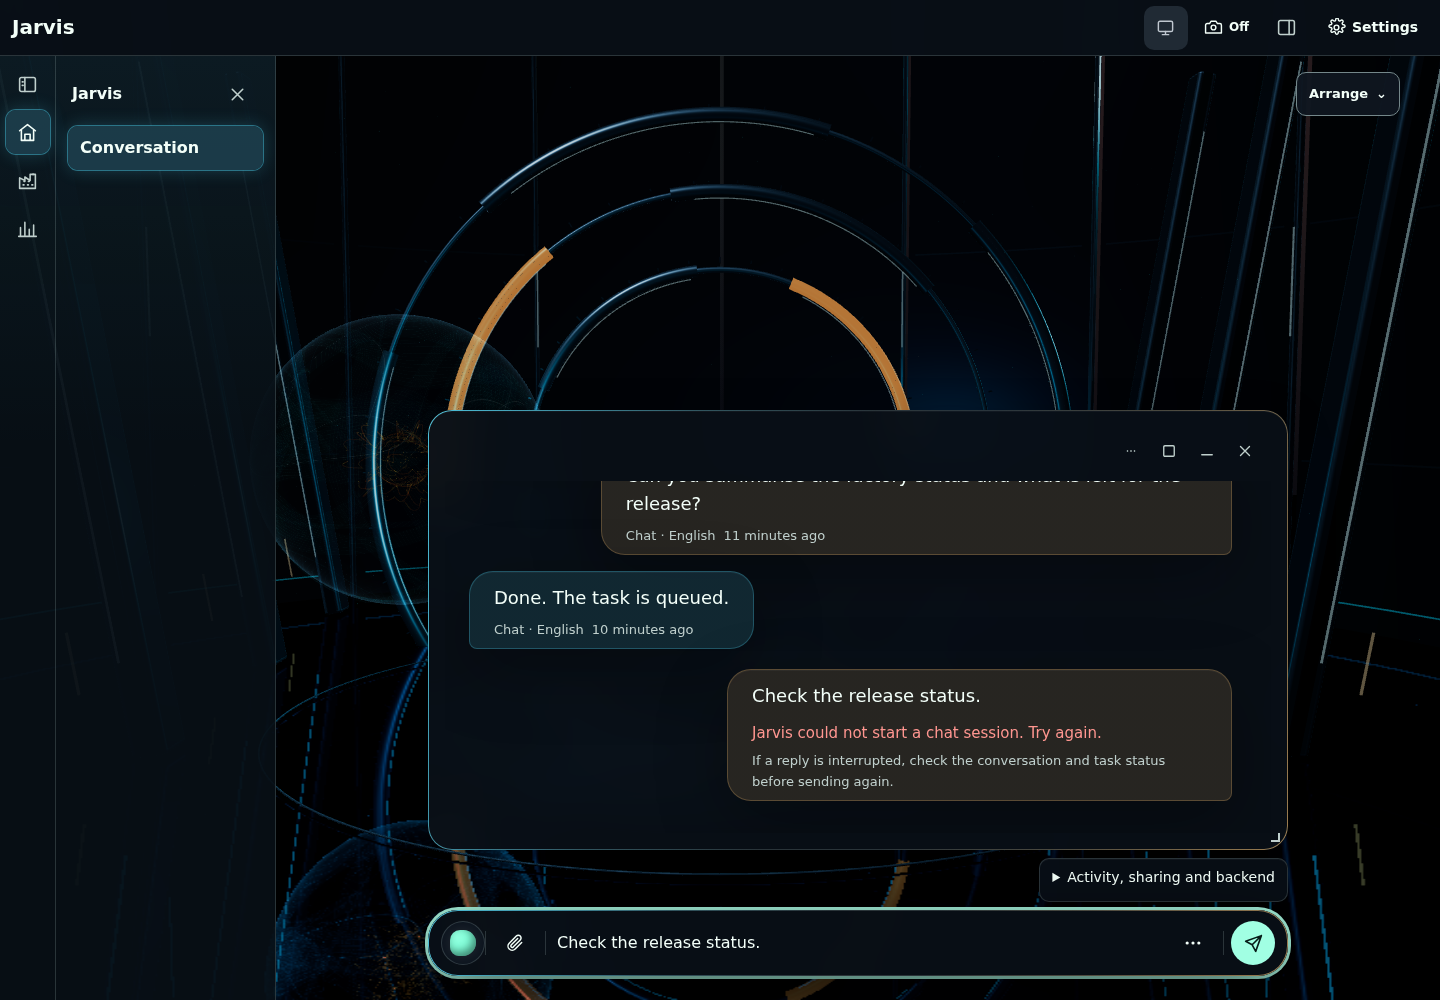
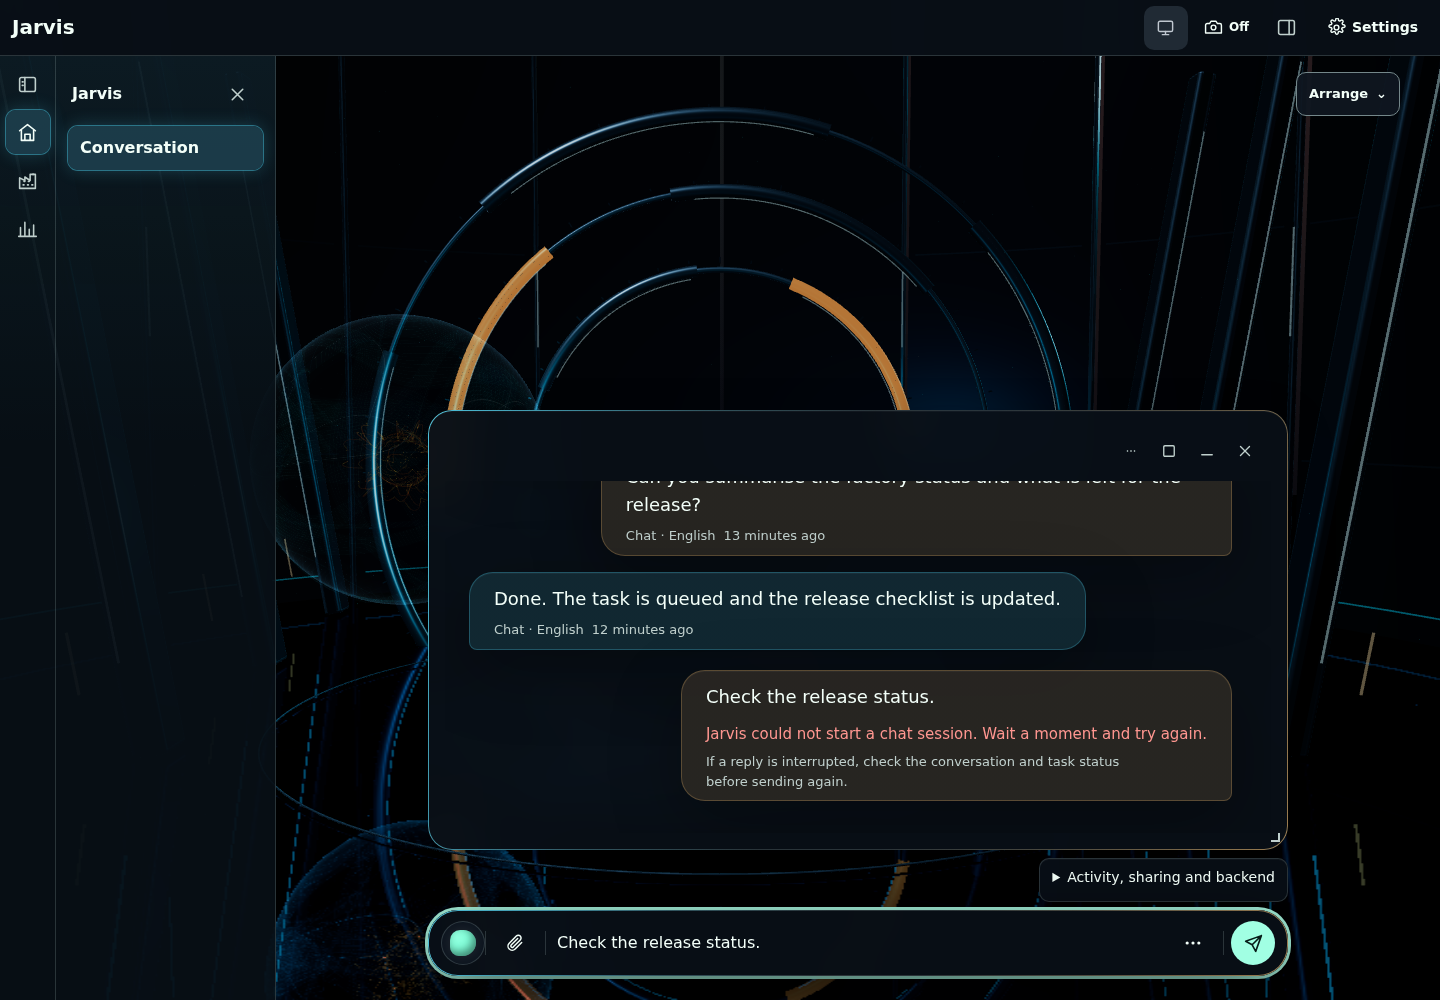
Keep voice and turn errors in normal flow; reopen history on failure; re-capture error states

Changed region(s): [[0.3438, 0.558, 0.8438, 0.806], [0.4375, 0.496, 0.5, 0.527]]

diff --git a/apps/web/src/ConversationHistory.css b/apps/web/src/ConversationHistory.css
@@ -85,8 +85,12 @@
 .conversation-transcript:focus-visible { outline: 3px solid var(--focus); outline-offset: -3px; }
 .conversation-input { position: relative; display: grid; grid-template-columns: 44px minmax(0, 1fr); align-items: center; gap: var(--space-2); flex: 0 0 auto; width: 100%; max-width: 860px; margin: 0 auto; padding: 10px 12px; border: 1px solid var(--rule); border-radius: 30px; background: var(--surface-translucent); backdrop-filter: blur(var(--surface-blur)); box-shadow: var(--dialog-shadow); }
 .conversation-input:has(textarea:focus-visible) { box-shadow: var(--dialog-shadow), 0 0 0 3px var(--focus); }
-.conversation-input[data-voice-active="false"] > .conversation-actions { position: relative; padding-right: var(--space-2); }
-.conversation-input[data-voice-active="false"] > .conversation-actions::after,
+/* In typing mode the voice wrappers dissolve into the composer grid so voice errors sit in normal flow as a full-width row above it. */
+.conversation-input[data-voice-active="false"] > .conversation-actions,
+.conversation-input[data-voice-active="false"] .voice-controls[data-active="false"] { display: contents; }
+.conversation-input[data-voice-active="false"] .voice-controls[data-active="false"] > .action-row { position: relative; padding-right: var(--space-2); }
+.conversation-input[data-voice-active="false"] .voice-controls[data-active="false"] > :is(.voice-error, .voice-screen-error) { position: static; order: -1; grid-column: 1 / -1; width: auto; max-width: none; margin: 0 4px; padding: 10px 14px; border: 0; border-radius: var(--radius-control); background: var(--surface); color: var(--error); font-size: var(--type-small); line-height: 1.4; overflow-wrap: anywhere; }
+.conversation-input[data-voice-active="false"] .voice-controls[data-active="false"] > .action-row::after,
 .conversation-history .composer-attach::after,
 .conversation-history .composer-more::after { position: absolute; top: 10px; right: -1px; bottom: 10px; width: 1px; background: var(--rule); content: ""; }
 .conversation-history .composer-attach, .conversation-history .composer-more { padding-right: var(--space-2); }
@@ -280,7 +284,7 @@
   .conversation-message { padding: var(--space-3) var(--space-4); }
   .conversation-window-host > .conversation-transcript { padding: 0 var(--space-3) var(--space-3); }
   .conversation-input { border-radius: 26px; padding: 6px 8px; }
-  .conversation-input[data-voice-active="false"] > .conversation-actions { padding-right: var(--space-1); }
+  .conversation-input[data-voice-active="false"] .voice-controls[data-active="false"] > .action-row { padding-right: var(--space-1); }
   .conversation-history .composer-attach, .conversation-history .composer-more { padding-right: 2px; }
   .conversation-history .composer { gap: var(--space-1); }
   .conversation-overview .jarvis-side { grid-template-columns: minmax(0, 1fr); }

diff --git a/apps/web/src/App.test.tsx b/apps/web/src/App.test.tsx
@@ -555,6 +555,29 @@ describe('App shell', () => {
     expect(composer.value).toBe('Unsent draft');
   });
 
+  it('shows voice errors inside the composer and brings closed history back for a failed turn', async () => {
+    const user = userEvent.setup();
+    loadConversationHistory.mockResolvedValue({ messages: historyPair, nextCursor: null });
+    sendChatTurn.mockRejectedValue(new Error('Jarvis could not finish the reply. Try again.'));
+    await renderSignedIn();
+    await screen.findByText('I am ready.');
+
+    await user.click(screen.getByRole('button', { name: 'Close Conversation' }));
+    await user.type(screen.getByRole('textbox', { name: 'Message Jarvis' }), 'Will this fail?');
+    await user.click(screen.getByRole('button', { name: 'Send' }));
+    const turnAlert = await screen.findByText('Jarvis could not finish the reply. Try again.');
+    expect(turnAlert.getAttribute('role')).toBe('alert');
+    expect(screen.getByRole('article', { name: 'Conversation' }).contains(turnAlert)).toBe(true);
+
+    await user.click(screen.getByRole('button', { name: 'Start voice' }));
+    await user.click(screen.getByRole('button', { name: 'End voice' }));
+    act(() => voiceSessions.at(-1)!.options.onStatus('error', 'Audio could not start. Check your browser audio settings and try again.'));
+    const voiceAlert = screen.getByText('Audio could not start. Check your browser audio settings and try again.');
+    expect(voiceAlert.getAttribute('role')).toBe('alert');
+    expect(voiceAlert.closest('.conversation-input')).not.toBeNull();
+    expect(screen.getByRole('article', { name: 'Conversation' }).contains(voiceAlert)).toBe(false);
+  });
+
   it('restores history minimised for voice when voice ends', async () => {
     const user = userEvent.setup();
     loadConversationHistory.mockResolvedValue({ messages: historyPair, nextCursor: null });

diff --git a/apps/web/src/styles.test.tsx b/apps/web/src/styles.test.tsx
@@ -140,6 +140,17 @@ describe('shared glass tokens', () => {
     expect(styles).toContain('@media (max-width: 600px)');
   });
 
+  it('keeps typing-mode voice errors in the composer flow instead of an offset overlay', () => {
+    const styles = readFileSync('src/ConversationHistory.css', 'utf8');
+    const error = /\.conversation-input\[data-voice-active="false"\] \.voice-controls\[data-active="false"\] > :is\(\.voice-error, \.voice-screen-error\)\s*\{([^}]*)\}/;
+
+    expect(ruleDeclaration(styles, error, 'position')).toBe('static');
+    expect(ruleDeclaration(styles, error, 'grid-column')).toBe('1 / -1');
+    expect(ruleDeclaration(styles, error, 'max-width')).toBe('none');
+    expect(styles).toContain('.conversation-input[data-voice-active="false"] > .conversation-actions,\n'
+      + '.conversation-input[data-voice-active="false"] .voice-controls[data-active="false"] { display: contents; }');
+  });
+
   it('gives Jarvis replies a readable semantic glass surface over the stage', () => {
     const styles = readFileSync('src/ConversationHistory.css', 'utf8');
     const jarvisMessage = ruleDeclaration(

diff --git a/apps/web/src/ConversationHistory.tsx b/apps/web/src/ConversationHistory.tsx
@@ -271,6 +271,15 @@ export function ConversationHistory({
     workspaceCommands.dispatch({ commandId: 'conversation-reveal', operation: 'restore', viewId: conversationViewId });
   }, [workspaceCommands]);
 
+  const shownFailure = useRef('');
+  useEffect(() => {
+    // Turn errors are shown in the history, so a new failure brings a closed or minimised window back.
+    const failure = turnError || (failedTurns.length > 0 ? `failed-${failedTurns.at(-1)!.id}` : '');
+    if (failure === shownFailure.current) return;
+    shownFailure.current = failure;
+    if (failure) revealHistory();
+  }, [failedTurns, revealHistory, turnError]);
+
   useEffect(() => {
     // Choosing Conversation in the navigation brings a closed or minimised history back.
     if (seenLocationKey.current === locationKey) return;

diff --git a/DESIGN.md b/DESIGN.md
@@ -681,6 +681,7 @@ Dan requested one issue and one implementation PR for the shell, input and messa
 - **Status:** `DatabaseWakeStatus` renders a compact `.topbar-status` pill first in the top-bar actions; phones show the pulsing mark with the label kept for assistive technology and as a tooltip. Reduced motion stops the pulse.
 - **Composer:** one `luminous-glass` pill (radius 30px) holding orb │ paperclip │ multiline text │ More │ Send (paper-plane). Neutral `--rule` hairline dividers separate groups. The paperclip reuses `ConversationMoreMenu` with no Language row for the existing screen/camera visual-context actions.
 - **Message window:** the shared workspace window for view `conversation`, styled `luminous-glass` with a visually hidden title and round borderless controls. Tiled, it sits bottom-centred above the composer at up to `min(860px, 100%)` wide and `min(44vh, 460px)` tall (phones `min(46dvh, 420px)`). Maximise, minimise tabs, layered drag/resize and focus are the workspace's own behavior. Typing-mode Jarvis now stacks the workspace above the composer, so workspace windows are visible on desktop as well as phones. No title, orb, separator or avatars. Dan's messages sit right with a warm `--message-dan-tint`; Jarvis replies sit left with the existing `--surface-translucent` plus `--message-jarvis-tint`; both are limited to `min(88%, 62ch)`. Author names remain in visually hidden text and `data-speaker`.
+- **Errors:** turn failures stay `role="alert"` text inside the conversation window, and a new failure restores a closed or minimised window. Typing-mode voice errors (and screen-sharing errors) are `role="alert"` rows in normal flow inside the composer pill, spanning its full width above the orb and text field, instead of an offset overlay that could clip at the left edge or sit behind the window. Captures: `p8-37-desktop-voice-dark.png`, `p8-37-phone-voice-error-light.png`, `p8-37-desktop-failed-turn-dark.png`, `p8-37-phone-failed-turn-dark.png`.
 - **Evidence:** fixture Chromium/SwiftShader captures `docs/ui/screenshots/p8-37-*` at 1440×1000 and 390×844, dark/light. They use scratch auth/API fixtures, not live provider, physical-device or hardware-GPU evidence. The window, maximised, minimised-tab, Jump to latest, failed-turn and panels-open captures were refreshed after the shared-workspace rework; voice minimise/restore is covered by App integration tests, not a live voice session. Those tests also check that minimising, maximising, closing and restoring history during voice or an in-flight reply keeps the single voice session, draft, FIFO queue and reply. Microphone lifecycle, the compact voice bar, under-orb state and 3D wake/audio remain #417/#419 scope and are unchanged here.
 
 ## Voice status beneath the orb and stronger live behavior — 6 October 2026
